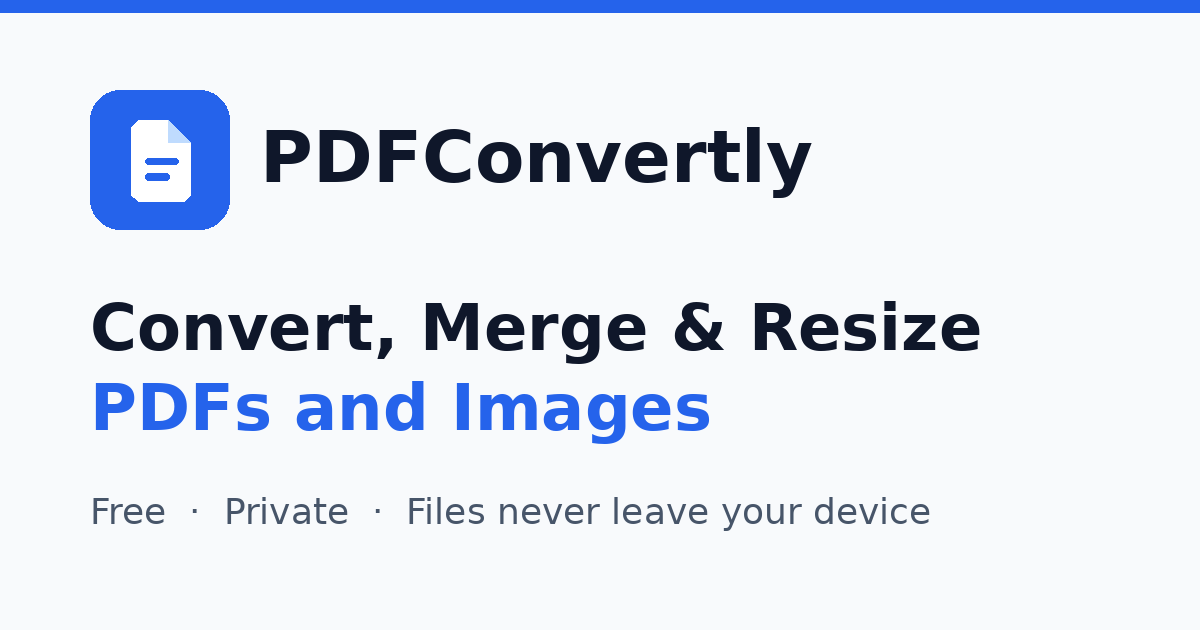
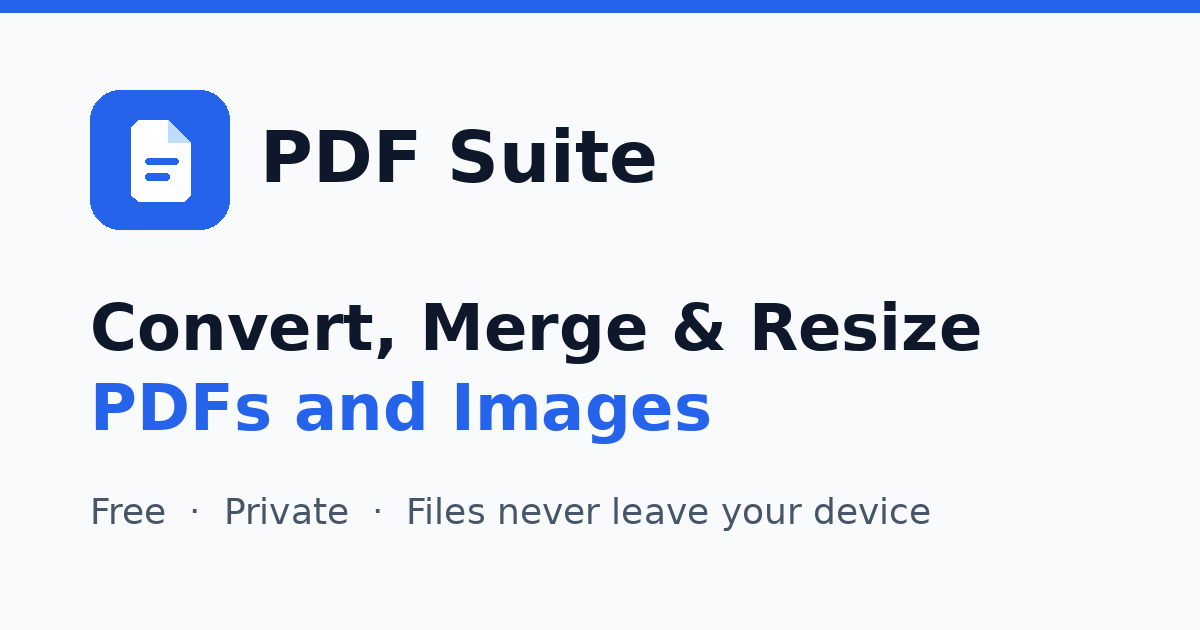
Changed name to PDF Suite

Changed region(s): [[0.3392, 0.181, 0.6783, 0.3317]]

diff --git a/src/components/Footer.tsx b/src/components/Footer.tsx
@@ -1,5 +1,6 @@
 import Link from "next/link";
 import { TOOLS } from "@/lib/tools";
+import { SITE } from "@/lib/site";
 
 const PAGES = [
   { name: "About", href: "/about" },
@@ -13,7 +14,7 @@ export default function Footer() {
     <footer className="mt-16 border-t border-slate-200 bg-white">
       <div className="mx-auto grid max-w-6xl gap-8 px-4 py-10 sm:grid-cols-3">
         <div>
-          <p className="font-bold text-slate-900">PDFConvertly</p>
+          <p className="font-bold text-slate-900">{SITE.name}</p>
           <p className="mt-2 text-sm text-slate-600">
             Free PDF and image tools. Your files are processed in your browser and never uploaded.
           </p>
@@ -44,7 +45,7 @@ export default function Footer() {
         </nav>
       </div>
       <p className="border-t border-slate-100 py-4 text-center text-xs text-slate-500">
-        © {new Date().getFullYear()} PDFConvertly
+        © {new Date().getFullYear()} {SITE.name}
       </p>
     </footer>
   );

diff --git a/src/app/page.tsx b/src/app/page.tsx
@@ -12,7 +12,7 @@ const base = pageMeta({
   path: "/",
 });
 
-// Home page uses the full title without the "| PDFConvertly" suffix
+// Home page uses the full title without the "| site name" suffix
 export const metadata: Metadata = {
   ...base,
   title: { absolute: `${SITE.name} – Convert, Merge & Resize PDFs and Images` },
@@ -55,7 +55,7 @@ export default function HomePage() {
         </div>
       </section>
 
-      <section className="mt-16 grid gap-6 sm:grid-cols-3" aria-label="Why PDFConvertly">
+      <section className="mt-16 grid gap-6 sm:grid-cols-3" aria-label={`Why ${SITE.name}`}>
         {FEATURES.map(({ icon: Icon, title, text }) => (
           <div key={title} className="text-center">
             <Icon className="mx-auto h-8 w-8 text-blue-600" aria-hidden="true" />

diff --git a/src/lib/imageToPdf.ts b/src/lib/imageToPdf.ts
@@ -2,6 +2,7 @@
 // PDF building with pdf-lib. pdf-lib is loaded only when a PDF is created.
 import { detectFileKind } from "@/lib/files";
 import { MAX_CANVAS_AREA, type Size } from "@/lib/image";
+import { SITE } from "@/lib/site";
 
 export type PageSizeChoice = "a4" | "letter" | "fit";
 export type OrientationChoice = "auto" | "portrait" | "landscape";
@@ -173,8 +174,8 @@ export async function buildPdfFromImages(
   const { PDFDocument } = await import("pdf-lib");
   const pdf = await PDFDocument.create();
   pdf.setTitle(title);
-  pdf.setCreator("PDFConvertly");
-  pdf.setProducer("PDFConvertly (pdf-lib)");
+  pdf.setCreator(SITE.name);
+  pdf.setProducer(`${SITE.name} (pdf-lib)`);
   const skipped: string[] = [];
 
   for (let i = 0; i < files.length; i++) {

diff --git a/src/components/Header.tsx b/src/components/Header.tsx
@@ -6,6 +6,7 @@ import { usePathname } from "next/navigation";
 import { useState } from "react";
 import { FileText, Menu, X } from "lucide-react";
 import { TOOLS } from "@/lib/tools";
+import { SITE } from "@/lib/site";
 
 export default function Header() {
   const pathname = usePathname();
@@ -21,7 +22,7 @@ export default function Header() {
       <div className="mx-auto flex h-16 max-w-6xl items-center justify-between px-4">
         <Link href="/" className="flex items-center gap-2 text-lg font-bold text-slate-900" onClick={() => setOpen(false)}>
           <FileText className="h-6 w-6 text-blue-600" aria-hidden="true" />
-          PDFConvertly
+          {SITE.name}
         </Link>
 
         <nav aria-label="Tools" className="hidden gap-1 lg:flex">

diff --git a/src/lib/resizePdf.ts b/src/lib/resizePdf.ts
@@ -1,6 +1,7 @@
 // Resize PDF: put every page onto a new page size, scaled to fit without
 // stretching. Uses pdf-lib (loaded only when needed). Text stays as text.
 import { describePdfError } from "@/lib/mergePdf";
+import { SITE } from "@/lib/site";
 
 export type SizeChoice = "a4" | "a3" | "a5" | "letter" | "legal" | "custom";
 export type Orientation = "auto" | "portrait" | "landscape";
@@ -123,8 +124,8 @@ export async function resizePdf(
 
   const out = await PDFDocument.create();
   out.setTitle(title);
-  out.setCreator("PDFConvertly");
-  out.setProducer("PDFConvertly (pdf-lib)");
+  out.setCreator(SITE.name);
+  out.setProducer(`${SITE.name} (pdf-lib)`);
 
   const pages = src.getPages();
   for (let i = 0; i < pages.length; i++) {

diff --git a/src/lib/mergePdf.ts b/src/lib/mergePdf.ts
@@ -1,4 +1,5 @@
 // Merge PDF helpers using pdf-lib (loaded only when needed).
+import { SITE } from "@/lib/site";
 
 /** Turn pdf-lib errors into a short message a visitor understands. */
 export function describePdfError(e: unknown): string {
@@ -24,8 +25,8 @@ export async function mergePdfs(
   const { PDFDocument } = await import("pdf-lib");
   const merged = await PDFDocument.create();
   merged.setTitle(title);
-  merged.setCreator("PDFConvertly");
-  merged.setProducer("PDFConvertly (pdf-lib)");
+  merged.setCreator(SITE.name);
+  merged.setProducer(`${SITE.name} (pdf-lib)`);
 
   for (let i = 0; i < files.length; i++) {
     if (isCancelled()) return null;
